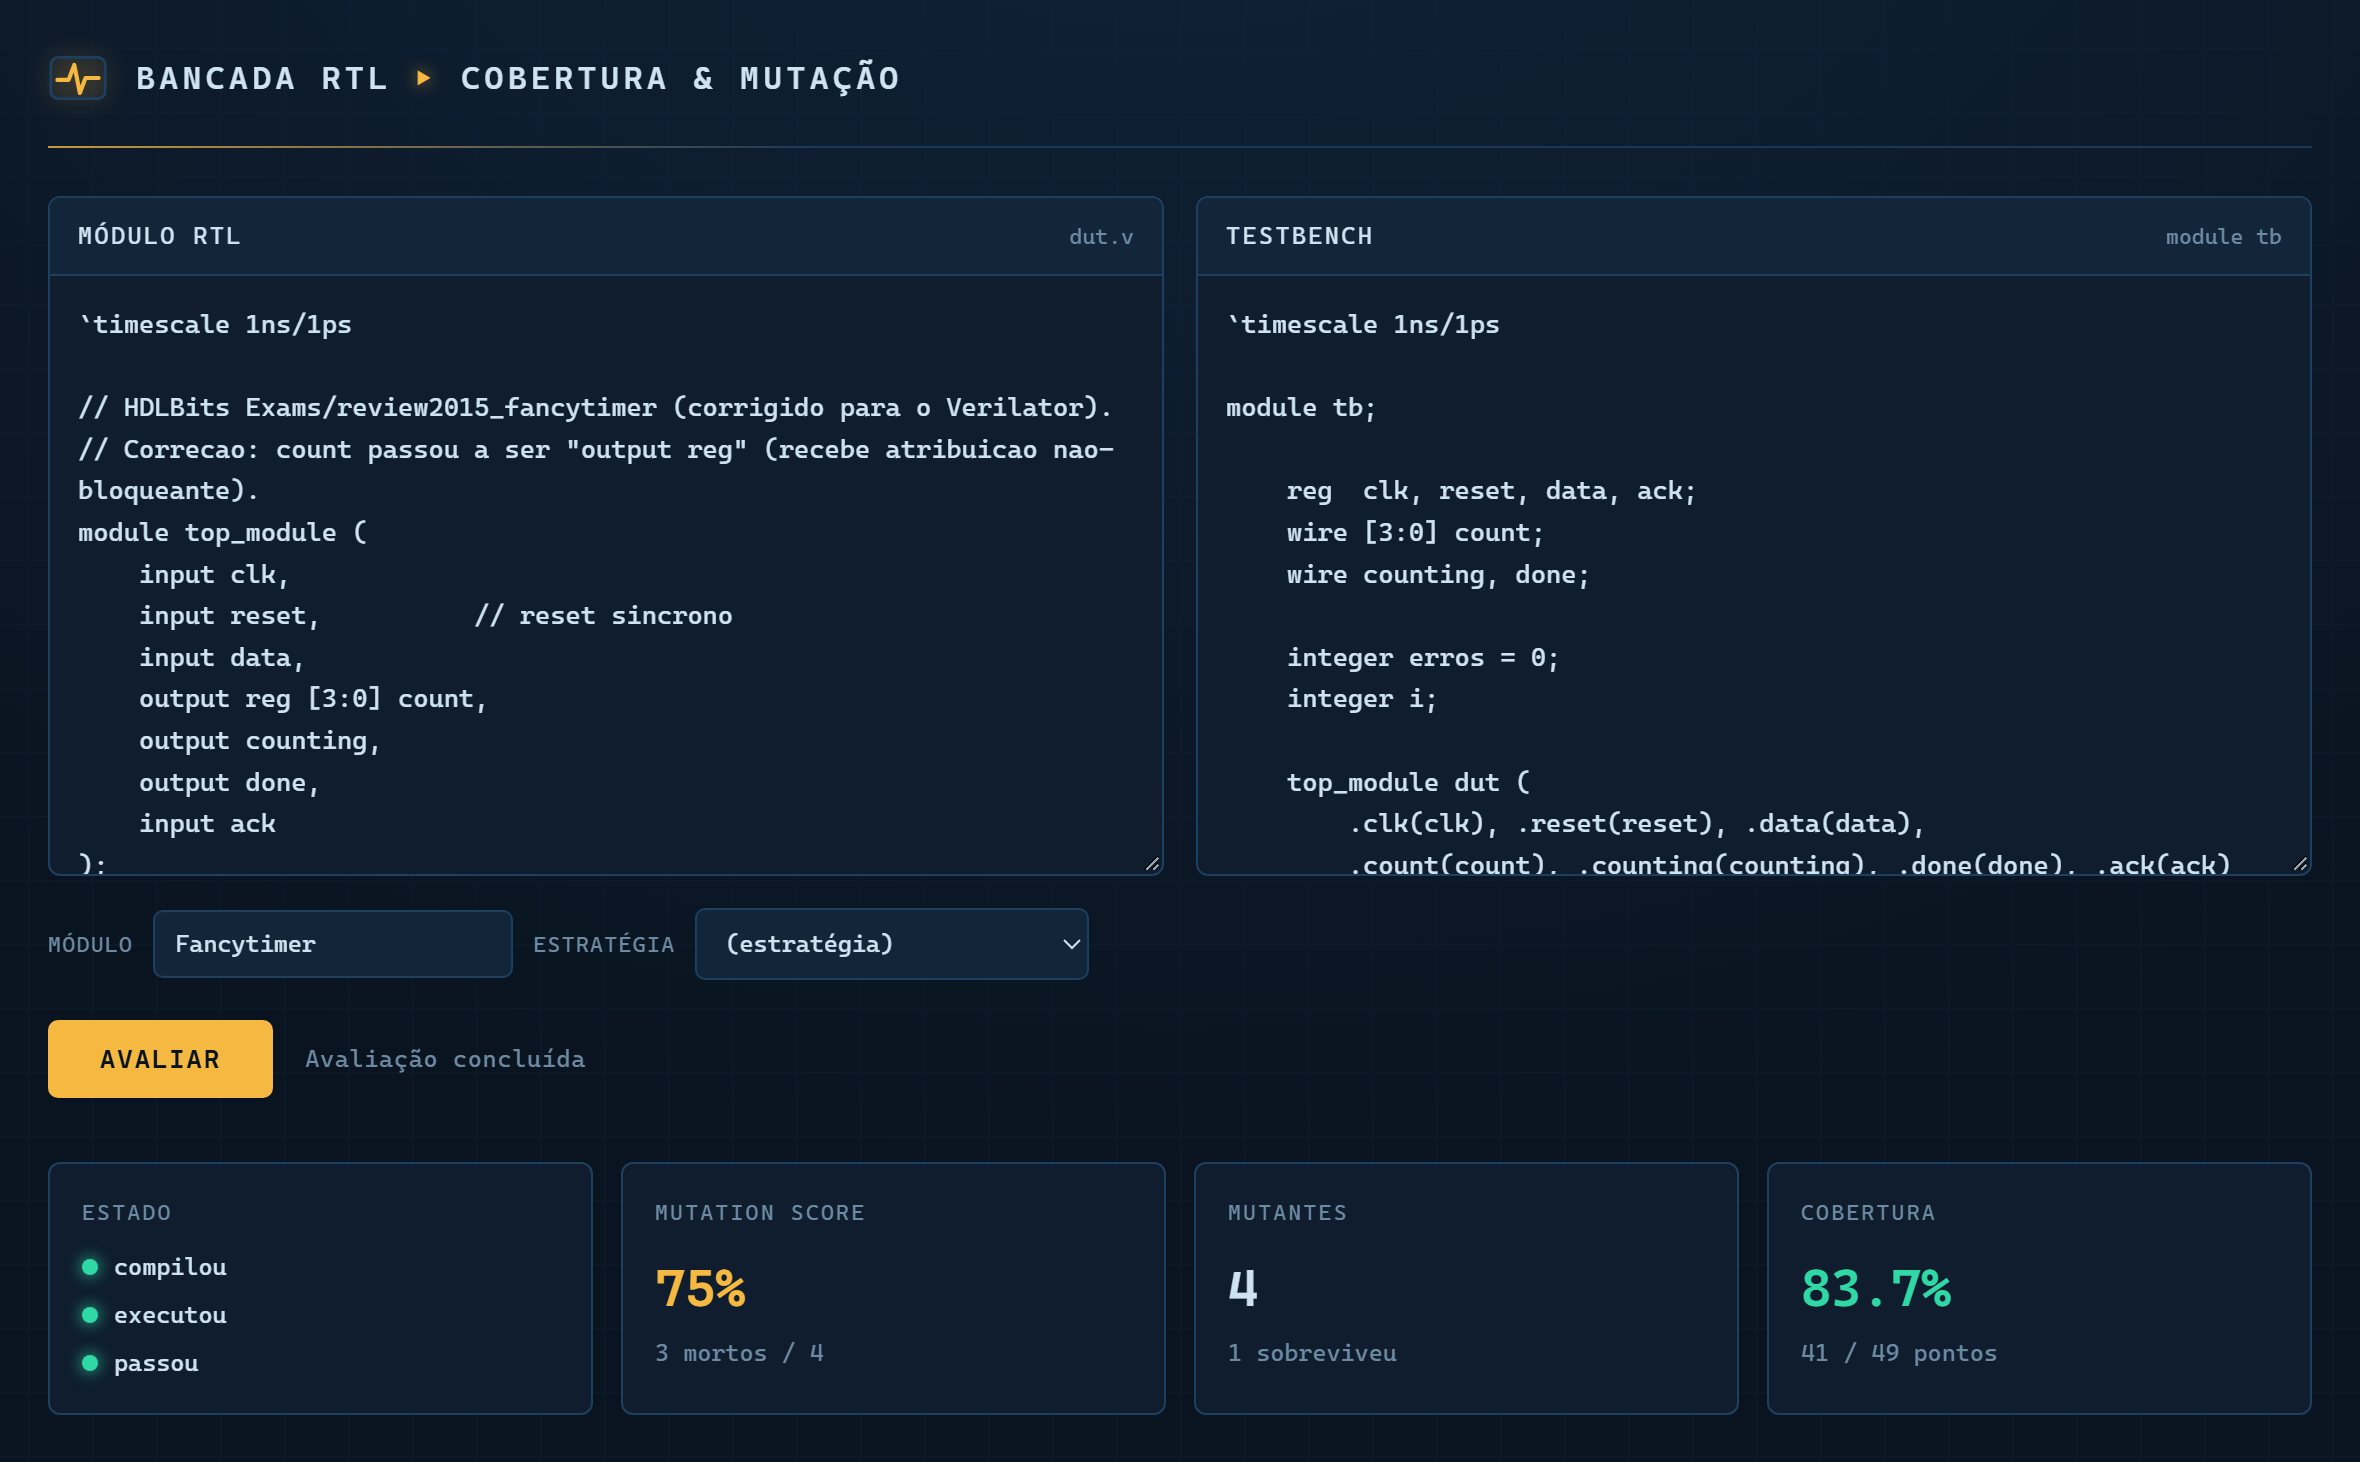
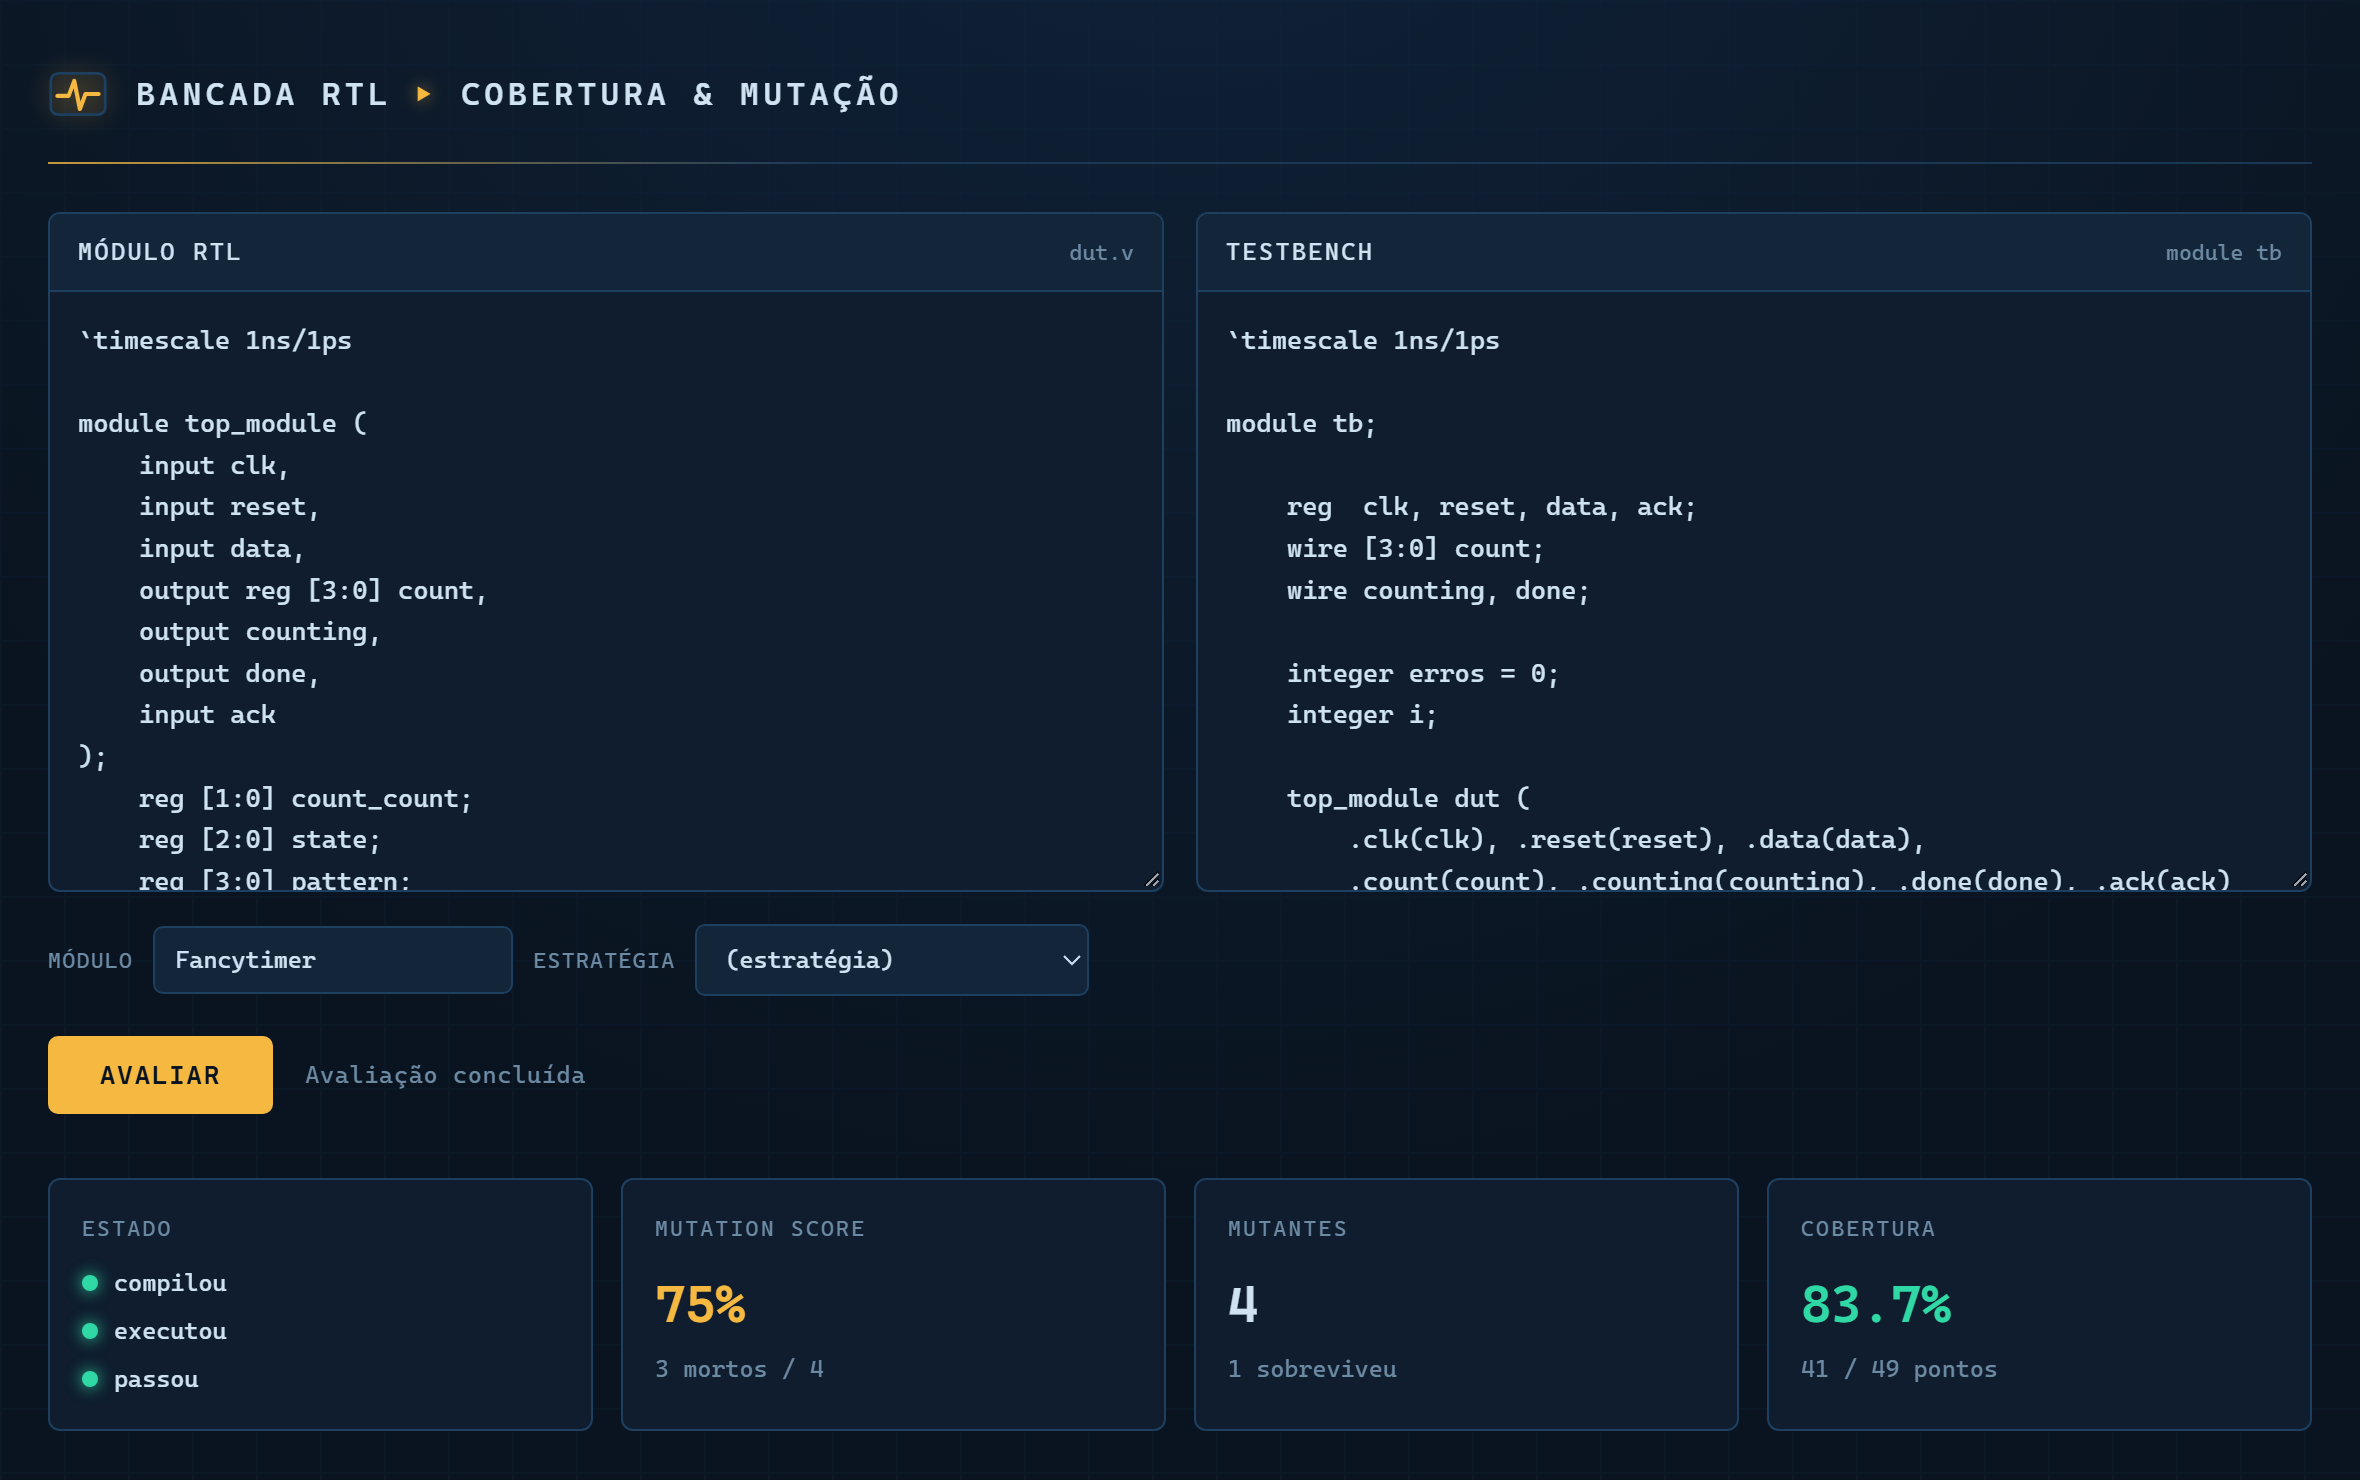
Tira os comentarios dos modulos e refaz as capturas da bancada
- documentacao/modulos: os comentarios // sairam dos 8 modulos que tinham
  comentario (cs450_gshare e wbuart32 nao tinham). O codigo e' o mesmo,
  token a token; o ICV dos 10 continua igual e todos passam no
  verilator --lint-only -Wno-fatal.
- Capturas da bancada refeitas com o Fancytimer sem comentarios e o
  testbench do par fancytimer_if, a partir da resposta real do /avaliar
  numa copia da bancada sem planilha (41/49 pontos, 3/4 mutantes, ICV
  1,90, como antes). A completa (Figura 2 do TCC) comeca nos campos do
  modulo e do testbench, sem o cabecalho.

diff --git a/documentacao/modulos/README.md b/documentacao/modulos/README.md
@@ -1,7 +1,6 @@
 # Módulos RTL do experimento
 
-Os 10 módulos avaliados no TCC, exatamente como foram colados nos prompts e na Bancada RTL. Todos
-são sequenciais.
+Os 10 módulos avaliados no TCC. Todos são sequenciais.
 
 | Arquivo | Módulo no TCC | Origem | Função | ICV | Classe |
 |---|---|---|---|---|---|
